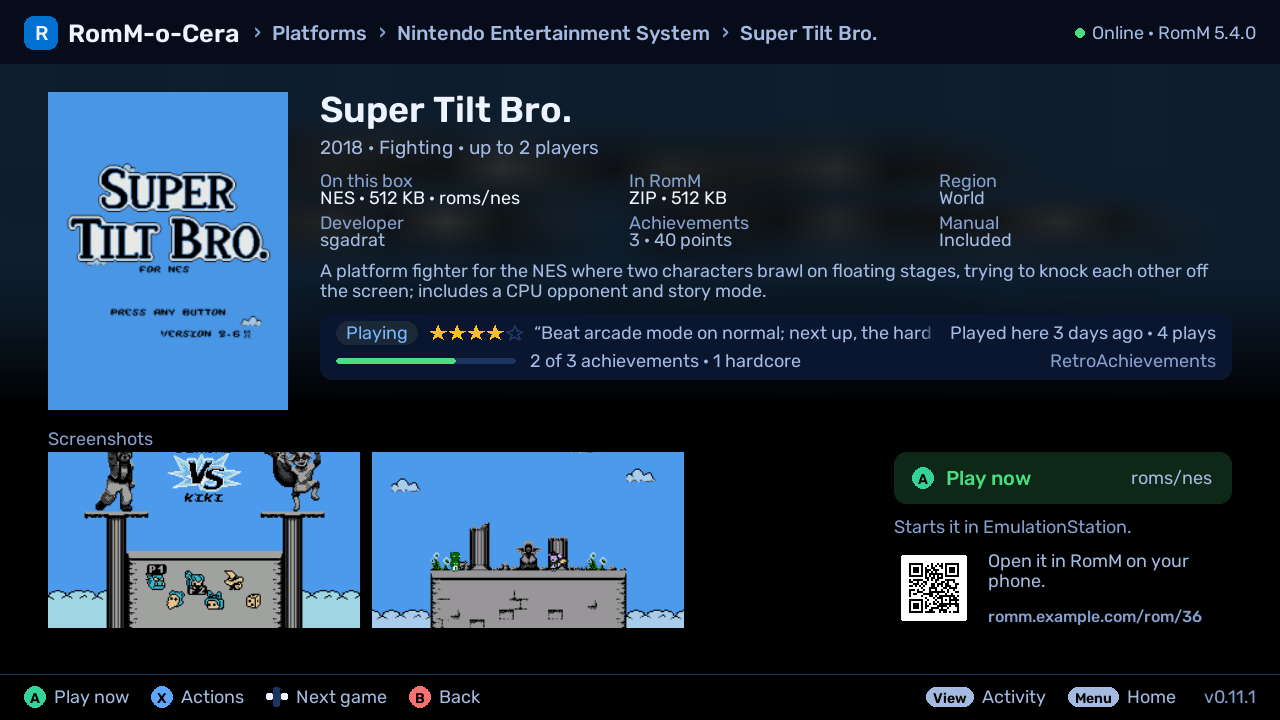
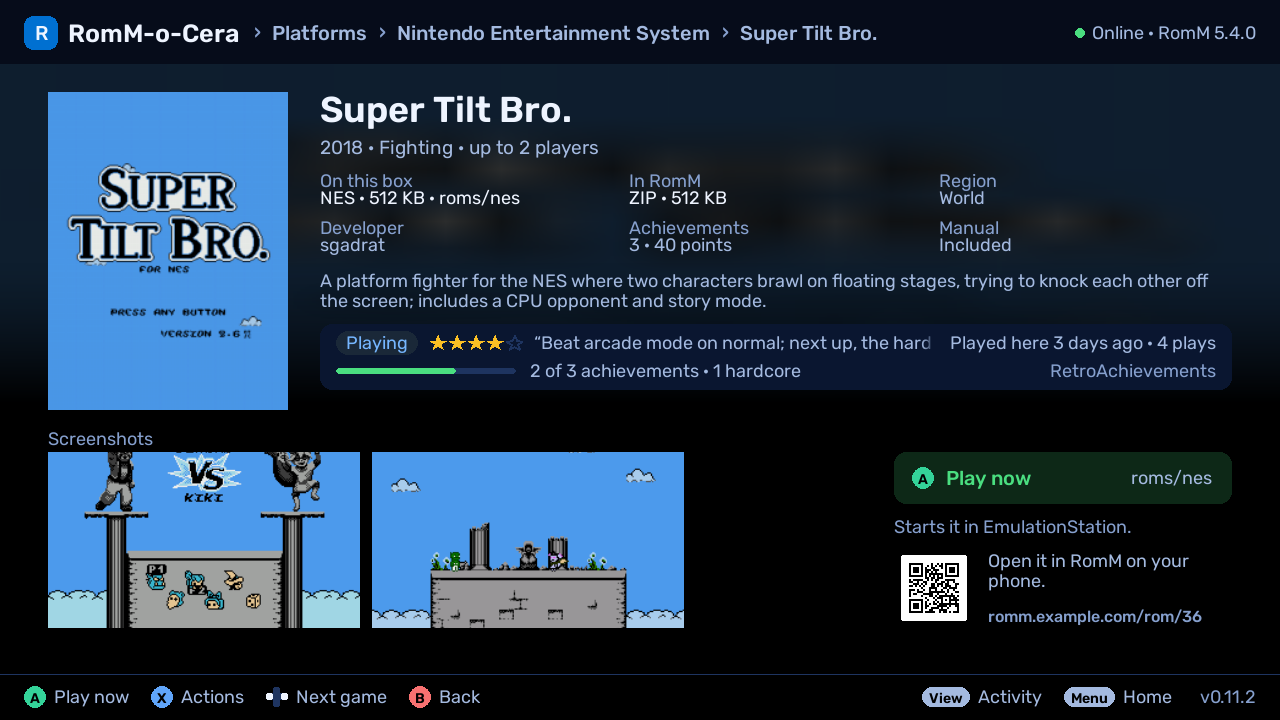
chore: v0.11.2

Changed region(s): [[0.25, 0.4583, 0.9688, 0.55], [0.25, 0.3056, 0.9688, 0.4278], [0.7188, 0.9472, 1.0, 0.9778]]

diff --git a/rommlib.py b/rommlib.py
@@ -33,12 +33,12 @@ from typing import Callable, Optional
 
 import requests
 
-VERSION = "0.11.1"            # changes only for a real GitHub release
+VERSION = "0.11.2"            # changes only for a real GitHub release
 BUILD = ""                   # internal builds: deploy.sh stamps the git commit here (empty in releases)
 VERSION_LABEL = VERSION + ("+" + BUILD if BUILD else "")
 
 APP_DIR = os.path.dirname(os.path.abspath(__file__))
-RELEASE_DATE = "2026-10-16"   # bump with VERSION (tools/build-release.sh refuses a stale one)
+RELEASE_DATE = "2026-10-17"   # bump with VERSION (tools/build-release.sh refuses a stale one)
 AUTHOR = "fraygox"
 PROJECT_URL = "https://github.com/fraygox/romm-o-cera"
 DOCS_URL = "https://fraygox.github.io/romm-o-cera/"     # the documentation site (Settings shows its QR code)

diff --git a/CHANGELOG.md b/CHANGELOG.md
@@ -3,6 +3,20 @@
 Every stable release. Nightly builds: the commits on main since the last one.
 Releases up to v0.8.0: [GitHub Releases](https://github.com/fraygox/romm-o-cera/releases).
 
+## v0.11.2 (2026-10-17)
+
+Faster game info away from home, and clearer words, counts and buttons on every screen
+
+### Performance
+- **perf:** Game info and media reach EmulationStation up to 7 times faster when RomM is far away: they're fetched several at a time, as many as the box's CPU and the connection allow. A small box stays at two at a time.
+
+### Fixes
+- **fix:** Compressing shows what happened in words: "to CHD · 22.0 MB, now 147 KB", or the reason it was skipped, never the worker's log line; a queued disc shows its real size, tracks included.
+- **fix:** Activity counts the queue the way the header does, says how many are paused, and downloads held by Pause all say On hold.
+- **fix:** Counts of one read as one ("Delete 1 game?"), a one-game collection on the box says On this box, platform tiles always say games, and a shelf's position reads 4 / 46 so it isn't mistaken for what's on the box.
+- **fix:** Deleting asks Keep or Delete; Leftovers, Free up space and Conversions show where they are (On this box › Space › …); the address and token editors are named as their Settings rows; Settings only shows "Now:" for rows that hold a setting.
+- **fix:** Picking several labels X with what it does (Act on 2), Game night only offers another roll when one could find a game, the Search keyboard has no keys twice, game facts have room between them, and no screen draws a character the font lacks.
+
 ## v0.11.1 (2026-10-16)
 
 Safer disc compression (multi-disc playlists, LibCrypt .sbi files, exFAT drives), update checks that retry, and systems called by their names
